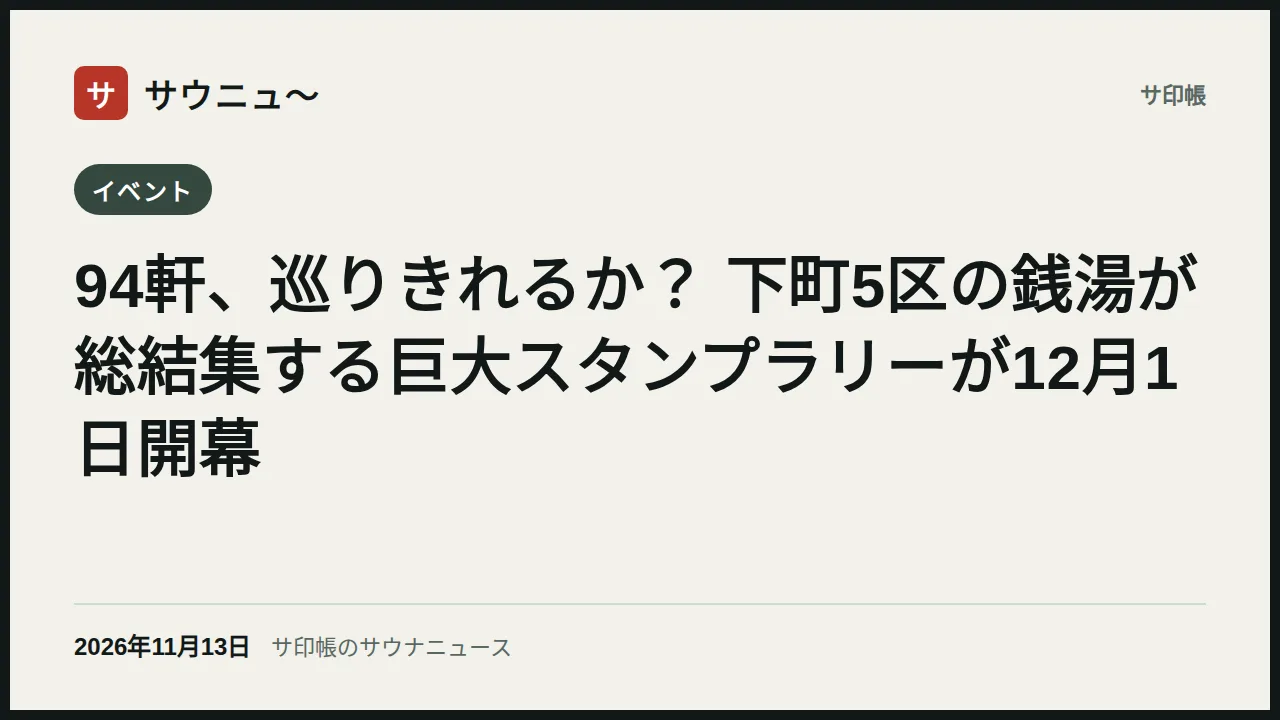
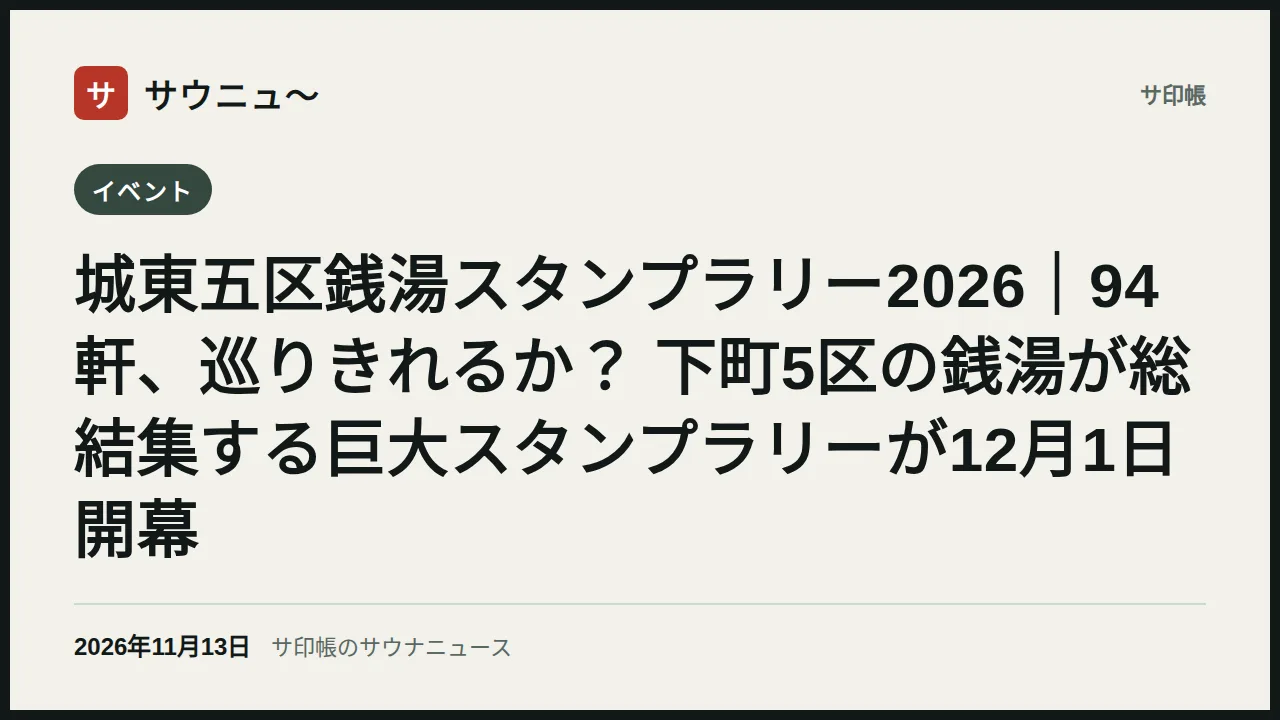
ニュース→押印の導線を改善（城東五区のタイトルに正式名称、関連施設と押印ボタンに記録の説明、facility_view計測を追加）

Changed region(s): [[0.0625, 0.3361, 0.9375, 0.55], [0.0625, 0.5806, 0.4688, 0.7944], [0.4688, 0.5806, 0.9375, 0.6722]]

diff --git a/app.js b/app.js
@@ -2036,6 +2036,7 @@ function newsCardHtml(article, options = {}) {
 }
 
 const newsTrackedKeys = new Set();
+const facilityViewTrackedKeys = new Set();
 function trackNewsOnce(key, name, params) {
   if (newsTrackedKeys.has(key)) return;
   newsTrackedKeys.add(key);
@@ -2249,7 +2250,7 @@ async function renderNewsArticle() {
     ${article.statusNote ? `<p class="news-status-note">${escapeHtml(article.statusNote)}</p>` : ""}
     ${h2Texts.length >= 3 ? `<details class="news-toc"><summary>この記事の目次</summary><ol>${h2Texts.map((text, i) => `<li><a href="#news-h2-${i + 1}">${escapeHtml(text)}</a></li>`).join("")}</ol></details>` : ""}
     <div class="news-article-body">${newsModule.renderNewsBlocks(article.body, { h2IdPrefix: "news-h2-" })}</div>
-    ${facilities.length ? `<section class="news-facilities"><h2>この記事に関連する施設</h2>${facilities.map((facility) => renderFacilityCard(facility)).join("")}</section>` : ""}
+    ${facilities.length ? `<section class="news-facilities"><h2>この記事に関連する施設</h2><p class="news-facilities-note">訪れた施設は、施設ページを開いて「押印する」を押すと、この端末に記録できます。記録した施設は、都道府県別のサ印帳で確認できます。</p>${facilities.map((facility) => renderFacilityCard(facility)).join("")}</section>` : ""}
     <p class="news-action"><strong>次の一歩:</strong> ${escapeHtml(article.action)}</p>
     ${article.caution ? `<p class="news-caution"><strong>注意:</strong> ${escapeHtml(article.caution)}</p>` : ""}
     <section class="news-sources">
@@ -2805,6 +2806,10 @@ function renderFacilityDetail() {
   }
   updateDocumentMetaForView("Facility", facility);
   syncFacilityStructuredData(facility);
+  if (!facilityViewTrackedKeys.has(facility.id)) {
+    facilityViewTrackedKeys.add(facility.id);
+    track("facility_view", { facility_id: facility.id, prefecture: facility.prefecture || "" });
+  }
   const id = escapeAttr(facility.id);
   const visited = Boolean(state.visited[facility.id]);
   const status = getFacilityStatus(facility);
@@ -2829,6 +2834,7 @@ function renderFacilityDetail() {
         ${renderMapRouteLink(facility)}
         <button class="facility-stamp-action" type="button" data-action="stamp" data-id="${id}" ${visited || status ? "disabled" : ""}>${visited ? "押印済み" : status ? escapeHtml(status.action) : "押印する"}</button>
       </div>
+      ${!visited && !status ? `<p class="facility-stamp-note">訪れたことがある施設は「押印する」で、この端末に記録できます。記録は都道府県別のサ印帳で確認できます。</p>` : ""}
       <nav class="facility-tabs" aria-label="施設詳細の表示">
         ${[["info","施設情報"],["note","サ活ノート"],["reviews","口コミ"]].map(([tab,label]) => `<button type="button" data-action="detail-tab" data-tab="${tab}" data-id="${id}" aria-controls="facility-pane-${tab}" aria-current="${facilityDetailTab === tab ? "page" : "false"}">${label}</button>`).join("")}
       </nav>

diff --git a/news.js b/news.js
@@ -4627,7 +4627,7 @@ export const SAUNA_NEWS = [
     slug: "joto5-sento-stamp-rally-2026",
     status: "published",
     category: "event",
-    title: "94軒、巡りきれるか？ 下町5区の銭湯が総結集する巨大スタンプラリーが12月1日開幕",
+    title: "城東五区銭湯スタンプラリー2026｜94軒、巡りきれるか？ 下町5区の銭湯が総結集する巨大スタンプラリーが12月1日開幕",
     lead: "足立・墨田・江東・葛飾・江戸川の下町5区で、銭湯94軒が連携するスタンプラリー「城東五区銭湯スタンプラリー2026」が2026年12月1日に始まります。異なる3区を巡れば区限定の銭湯カード、5種コンプリートのスペシャルカードは先着100名。主催者の公式発表で仕組みを整理しました。",
     publishedAt: "2026-11-13",
     updatedAt: "2026-11-13",
@@ -4791,7 +4791,7 @@ export const SAUNA_NEWS = [
         text: "参加94軒のうち、黄金湯（墨田区）、堀田湯（足立区）、深川温泉 常盤湯（江東区）、辰巳湯（江東区）、イーストランド（江戸川区）はサ印帳にも収録されています。この記事の下にある関連施設から各施設のページを開けるので、サ印帳の押印と合わせて巡る計画づくりに使ってください。"
       }
     ],
-    caution: "景品はいずれも先着・数量限定で、なくなり次第終了します。参加銭湯の営業日・営業時間は施設ごとに異なります。",
+    caution: "景品はいずれも先着・数量限定で、なくなり次第終了します。参加銭湯の営業日・営業時間は施設ごとに異なります。サ印帳の「押印」は、このイベントの景品交換に必要な紙の台紙のスタンプとは別の、サ印帳内での訪問記録です。",
     action: "台紙は参加銭湯で入手できます。まず異なる3区の巡り方を決めて、12月1日の開始に備えてください。",
     sources: [
       {
@@ -4801,7 +4801,13 @@ export const SAUNA_NEWS = [
     ],
     sourcesCheckedAt: "2026-11-13",
     heroAlt: "城東五区銭湯スタンプラリー2026のタイトルカード",
-    statusNote: "単一の公式情報源（主催者のプレスリリース）に基づく記事です。参加方法・景品交換条件の詳細は、台紙および公式案内をご確認ください。"
+    statusNote: "単一の公式情報源（主催者のプレスリリース）に基づく記事です。参加方法・景品交換条件の詳細は、台紙および公式案内をご確認ください。",
+    revisions: [
+      {
+        date: "2026-11-13",
+        text: "タイトルに正式名称「城東五区銭湯スタンプラリー2026」を明記し、注意書きに紙の台紙のスタンプとサ印帳の押印の違いを追記しました。"
+      }
+    ]
   },
   {
     slug: "cocofuro-plus-misato-opening",

diff --git a/styles.css b/styles.css
@@ -9401,3 +9401,17 @@ button:focus-visible, a:focus-visible, summary:focus-visible, select:focus-visib
 }
 .guide-gear-more[open ] summary::after { transform: rotate(180deg); }
 .guide-gear-more .guide-gear-grid { margin-top: 8px; }
+
+/* ニュース関連施設・施設詳細の押印案内（2026-11-13） */
+.news-facilities-note {
+  margin: 0 2px;
+  font-size: 0.85rem;
+  line-height: 1.6;
+  color: rgb(17 24 23 / 0.7);
+}
+.facility-stamp-note {
+  margin: 8px 2px 0;
+  font-size: 0.85rem;
+  line-height: 1.6;
+  color: rgb(17 24 23 / 0.7);
+}
